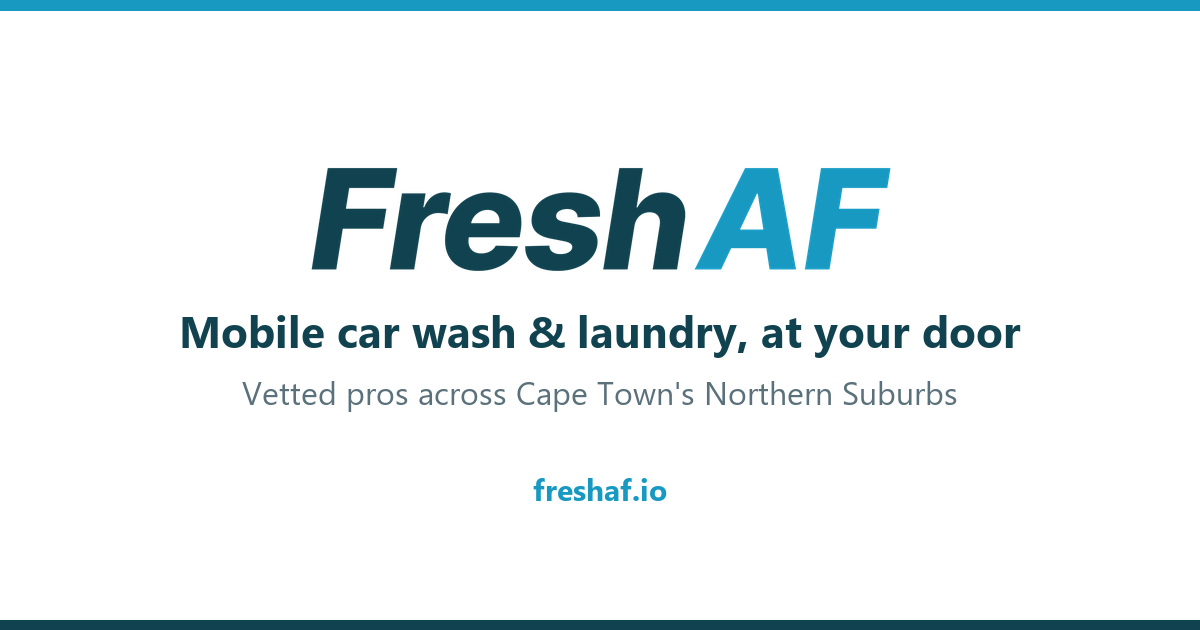
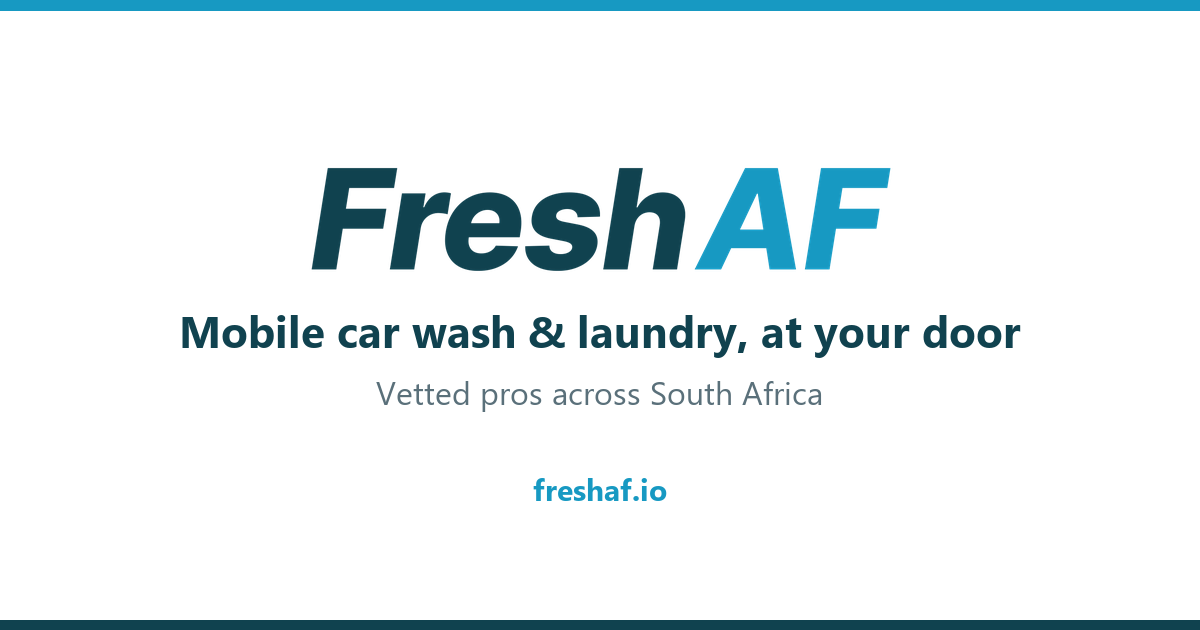
Android release path, national store listing, WhatsApp number registration script
- android/app/build.gradle: release signing from keystore.properties or Codemagic env,
  versionCode from BUILD_NUMBER. Debug APK and release AAB build on this machine.
- codemagic.yaml: android-play-internal workflow (signed AAB -> Play internal track).
- APP-STORE-LISTING.md: national copy (no Northern Suburbs), Google Play listing section.
- APP-STORE-SUBMISSION.md: Codemagic Android (A2b), Firebase push (A7), status table.
- og-card.png: "Vetted pros across South Africa"; Play feature graphic 1024x500.
- scripts/wa-register.ps1: one-time Cloud API /register for the sending number
  (sends failed with #133010 "Account not registered").

Changed region(s): [[0.185, 0.6032, 0.8017, 0.6635]]

diff --git a/APP-STORE-LISTING.md b/APP-STORE-LISTING.md
@@ -1,4 +1,7 @@
-# FreshAF: App Store listing, review notes and reviewer accounts
+# FreshAF: App Store and Google Play listing, review notes and reviewer accounts
+
+*FreshAF is national: the copy says South Africa, never one city, and never promises a pro
+in every town. The Google Play listing is at the end.*
 
 *Ready to paste into App Store Connect. Every claim below is true of the app as built on
 5 November 2026; if a feature changes, change this file in the same commit. Character
@@ -19,7 +22,7 @@ limits are Apple's and were checked when this was written (`node scripts/check-l
 | **Content rights** | Does not contain third-party content |
 | **Age rating** | 4+ (answer "None" to every question) |
 | **Price** | Free |
-| **Availability** | South Africa only, to start. Every order is fulfilled in Cape Town |
+| **Availability** | South Africa only. Pros are being signed up nationwide; where no pro works yet, the app shows nobody available before anything is booked |
 | **Copyright** | 2026 FreshAF (Pty) Ltd |
 | **Support URL** | https://freshaf.io/contact |
 | **Marketing URL** | https://freshaf.io |
@@ -27,11 +30,11 @@ limits are Apple's and were checked when this was written (`node scripts/check-l
 
 ## Promotional text (max 170, can be changed without a new build)
 
-Mobile car washes and laundry collection across Cape Town's Northern Suburbs. Compare vetted pros, book in under a minute, pay by card or cash.
+Mobile car washes and laundry collection across South Africa. Compare vetted pros near you, book in under a minute, pay by card or cash.
 
 ## Keywords (max 100, comma-separated, no spaces after commas)
 
-valet,mobile wash,laundromat,ironing,duvet,cleaning,Cape Town,Durbanville,Bellville,detailing
+valet,mobile wash,laundromat,ironing,duvet,cleaning,detailing,wash and fold,South Africa,car valet
 
 ## Description (max 4000)
 
@@ -66,15 +69,15 @@ WHY FRESHAF
 FOR PROS
 Run your own car wash or laundry business through FreshAF Pro: set your own prices, choose how far you travel, go online when you want work, and get job alerts on your phone.
 
-Serving Bellville, Durbanville, Brackenfell, Kraaifontein, Kuils River, Parow, Goodwood, Tygervalley, Plattekloof, Welgemoed, Edgemead, Bothasig, Monte Vista, Vredekloof and Stikland, with more of Cape Town to follow.
+FreshAF is signing up pros across South Africa. If no pro works near you yet, the app shows that before you book, so you never pay for a service nobody can do.
 
-FreshAF (Pty) Ltd, Cape Town.
+FreshAF (Pty) Ltd, South Africa.
 
 ---
 
 ## App Review notes (paste into "Notes" under App Review Information)
 
-FreshAF is an on-demand marketplace for physical services: mobile car washes and laundry collection, carried out by independent pros at the customer's address in Cape Town, South Africa.
+FreshAF is an on-demand marketplace for physical services: mobile car washes and laundry collection, carried out by independent pros at the customer's address, anywhere in South Africa where a pro works.
 
 DEMO ACCOUNTS. The sign-in details are in the Sign-in Information fields. Two accounts are provided:
 - a customer account, to book a service;
@@ -83,7 +86,7 @@ Both are marked as demo accounts on our side: the demo customer is only ever mat
 
 TO TRY A BOOKING. Sign in as the demo customer, choose Car Wash, and use the address 1 Main Road, Durbanville, Cape Town (or drop the pin anywhere in Durbanville). The demo pro is online there and appears in the list. You can choose Cash or Card; Card opens the test payment page. To see the job from the other side, sign in to the pro account on a second device.
 
-LOCATION. The app asks for location only when you tap "Use my location", to place the pickup pin. You can type an address instead. Addresses outside Cape Town's Northern Suburbs return no pros, because that is where we operate.
+LOCATION. The app asks for location only when you tap "Use my location", to place the pickup pin. You can type an address instead. An address with no pro working nearby returns no pros; the demo pro works in Durbanville, Cape Town, so please use the address above.
 
 PAYMENTS. Customers pay for a physical service performed outside the app, so payment is taken by our card provider on its own page or in cash on completion (Guideline 3.1.3(e)). There is nothing to buy inside the app itself.
 
@@ -112,3 +115,33 @@ Apple's reviewers test from outside South Africa, at any hour. The accounts must
 ## App Privacy (App Store Connect > App Privacy)
 
 Answer exactly as `APP-STORE-SUBMISSION.md` section D, which matches `ios/App/App/PrivacyInfo.xcprivacy`. In short: data is collected, linked to the user, used for App Functionality only, and **not used for tracking**.
+
+---
+
+## Google Play listing (Play Console > Grow > Store presence > Main store listing)
+
+| Field | Value |
+|---|---|
+| **App name** (max 30) | FreshAF: Car Wash & Laundry |
+| **Short description** (max 80) | Vetted pros wash your car and do your laundry, at your address. |
+| **Full description** (max 4000) | Paste the Description section above, unchanged |
+| **App icon** | `public/img/icon-512.png` (512×512) |
+| **Feature graphic** | 1024×500, `marketing/play-feature-graphic.png` |
+| **Phone screenshots** | At least 2, 1080×1920 or larger (APP-STORE-SUBMISSION.md section C) |
+| **Category** | Lifestyle |
+| **Tags** | Car wash, Laundry, Home services |
+| **Contact email** | The FreshAF support mailbox (as on freshaf.io/contact) |
+| **Website** | https://freshaf.io |
+| **Privacy policy** | https://freshaf.io/privacy |
+| **Account deletion URL** | https://freshaf.io/delete-account |
+| **Countries** | South Africa only |
+| **Price** | Free; no in-app purchases (real-world services are paid outside Play billing) |
+| **Ads** | No, the app contains no ads |
+| **Content rating** | IARC questionnaire: no violence, no user-generated public content, no gambling → Everyone |
+| **Target audience** | 18 and over (bookings and payments) |
+| **Data safety** | Exactly as APP-STORE-SUBMISSION.md section D |
+
+**App access (Play Console > Policy > App content > App access):** "All or some functionality
+is restricted" → add the demo customer and demo pro sign-ins, with the same instructions as
+the App Review notes above (address 1 Main Road, Durbanville). The accounts are the same ones
+Apple uses; set them up as in "Reviewer accounts" above.

diff --git a/APP-STORE-SUBMISSION.md b/APP-STORE-SUBMISSION.md
@@ -50,7 +50,11 @@ in our build. Three ways round it:
 | `targetSdkVersion 36` (Android 16) — mandatory since 31 Aug 2026 | ✅ 36 |
 | `minSdkVersion` | ✅ 24 (Android 7, ~98% of devices) |
 | Package name fixed and unique | ✅ `io.freshaf.app` |
-| Signed AAB (Android App Bundle, not APK) | ❌ Needs a signing key — step A3 |
+| Signed AAB (Android App Bundle, not APK) | ⚠ Build proven on this machine 6 Nov (unsigned). Signing wired in `android/app/build.gradle` (key from `android/keystore.properties` or Codemagic); needs the upload key — step A3 |
+| Android build without Android Studio | ✅ `codemagic.yaml` workflow `android-play-internal`: builds, signs, uploads to the internal test track (step A2b) |
+| Android push (Firebase) | ❌ Firebase project + `google-services.json` + `FCM_SERVICE_ACCOUNT` on Render — step A7 |
+| Feature graphic 1024×500 | ✅ `marketing/play-feature-graphic.png` |
+| Play listing text | ✅ `APP-STORE-LISTING.md`, "Google Play listing" |
 | Play Console account | ❌ **$25 one-off** |
 | Organisation account verification (D-U-N-S) | ❌ Needed to publish as FreshAF (Pty) Ltd |
 | Data safety form | ❌ Answers pre-written below |
@@ -132,6 +136,20 @@ npx cap open android
 
 In Android Studio: **Build → Generate Signed App Bundle / APK → Android App Bundle**.
 
+### A2b. Or build in the cloud with Codemagic
+The same Codemagic account as iOS (step B2) builds Android too, workflow
+**FreshAF Android -> Play internal testing**. Once, in Codemagic:
+1. **Team settings → Code signing identities → Android keystores → Add**: upload the upload
+   key from A3, reference name exactly `freshaf_upload_key`.
+2. **Environment variables**, group `freshaf_android`:
+   - `GOOGLE_SERVICES_JSON` = base64 of `google-services.json` (step A7), marked Secure;
+   - `GCLOUD_SERVICE_ACCOUNT_CREDENTIALS` = the Play Console API service-account JSON
+     (Play Console → Setup → API access → create service account, grant it Release
+     manager on FreshAF), marked Secure.
+3. The **first** upload must be done by hand in Play Console (Google's API refuses to upload
+   to an app that has never had a release). Download the `.aab` from the first Codemagic
+   build and upload it to Internal testing yourself; every build after that publishes itself.
+
 ### A3. Create the signing key — and never lose it
 Android Studio offers to create one. **Back the keystore file and its password up in two
 places.** If you lose it you cannot ever update the app; you have to publish a brand-new
@@ -162,6 +180,16 @@ placeholder in `public/.well-known/assetlinks.json`:
 ```
 
 Commit and deploy. Until then, links to freshaf.io open in a browser instead of the app.
+
+### A7. Switch on push notifications for Android (Firebase, free)
+1. **console.firebase.google.com → Add project** "FreshAF" (Analytics off; not needed).
+2. **Add app → Android**, package name `io.freshaf.app`. Download `google-services.json`.
+   It is configuration, not a secret, but keep it out of git anyway: Codemagic writes it in at
+   build time from `GOOGLE_SERVICES_JSON` (A2b). For a local build, put it in `android/app/`.
+3. **Project settings → Service accounts → Generate new private key.** This one IS a secret.
+   Render → freshaf → Environment → add `FCM_SERVICE_ACCOUNT` and paste the whole JSON.
+4. After the redeploy the log shows `[FreshAF][push] native: … Android ON` and the admin
+   readiness screen shows Android push live.
 
 ### A6. Release
 Start with **Internal testing** (instant, up to 100 testers, no review). Put it on your own
@@ -230,8 +258,8 @@ then **Product → Archive → Distribute App → App Store Connect**.
 - **App privacy** labels: section D below.
 - **Screenshots**: required for 6.7" and 6.5" iPhone. Section C.
 - **Review notes**: paste the Guideline 4.2 paragraph from this document, plus the demo
-  account, plus a line saying the service area is Cape Town's Northern Suburbs so the reviewer
-  knows why an address elsewhere returns nothing.
+  account, plus the line from APP-STORE-LISTING.md saying an address with no pro nearby returns
+  nobody, and that the demo pro works in Durbanville, so the reviewer uses that address.
 - **Export compliance**: "uses only standard HTTPS encryption" → exempt.
 
 ---
